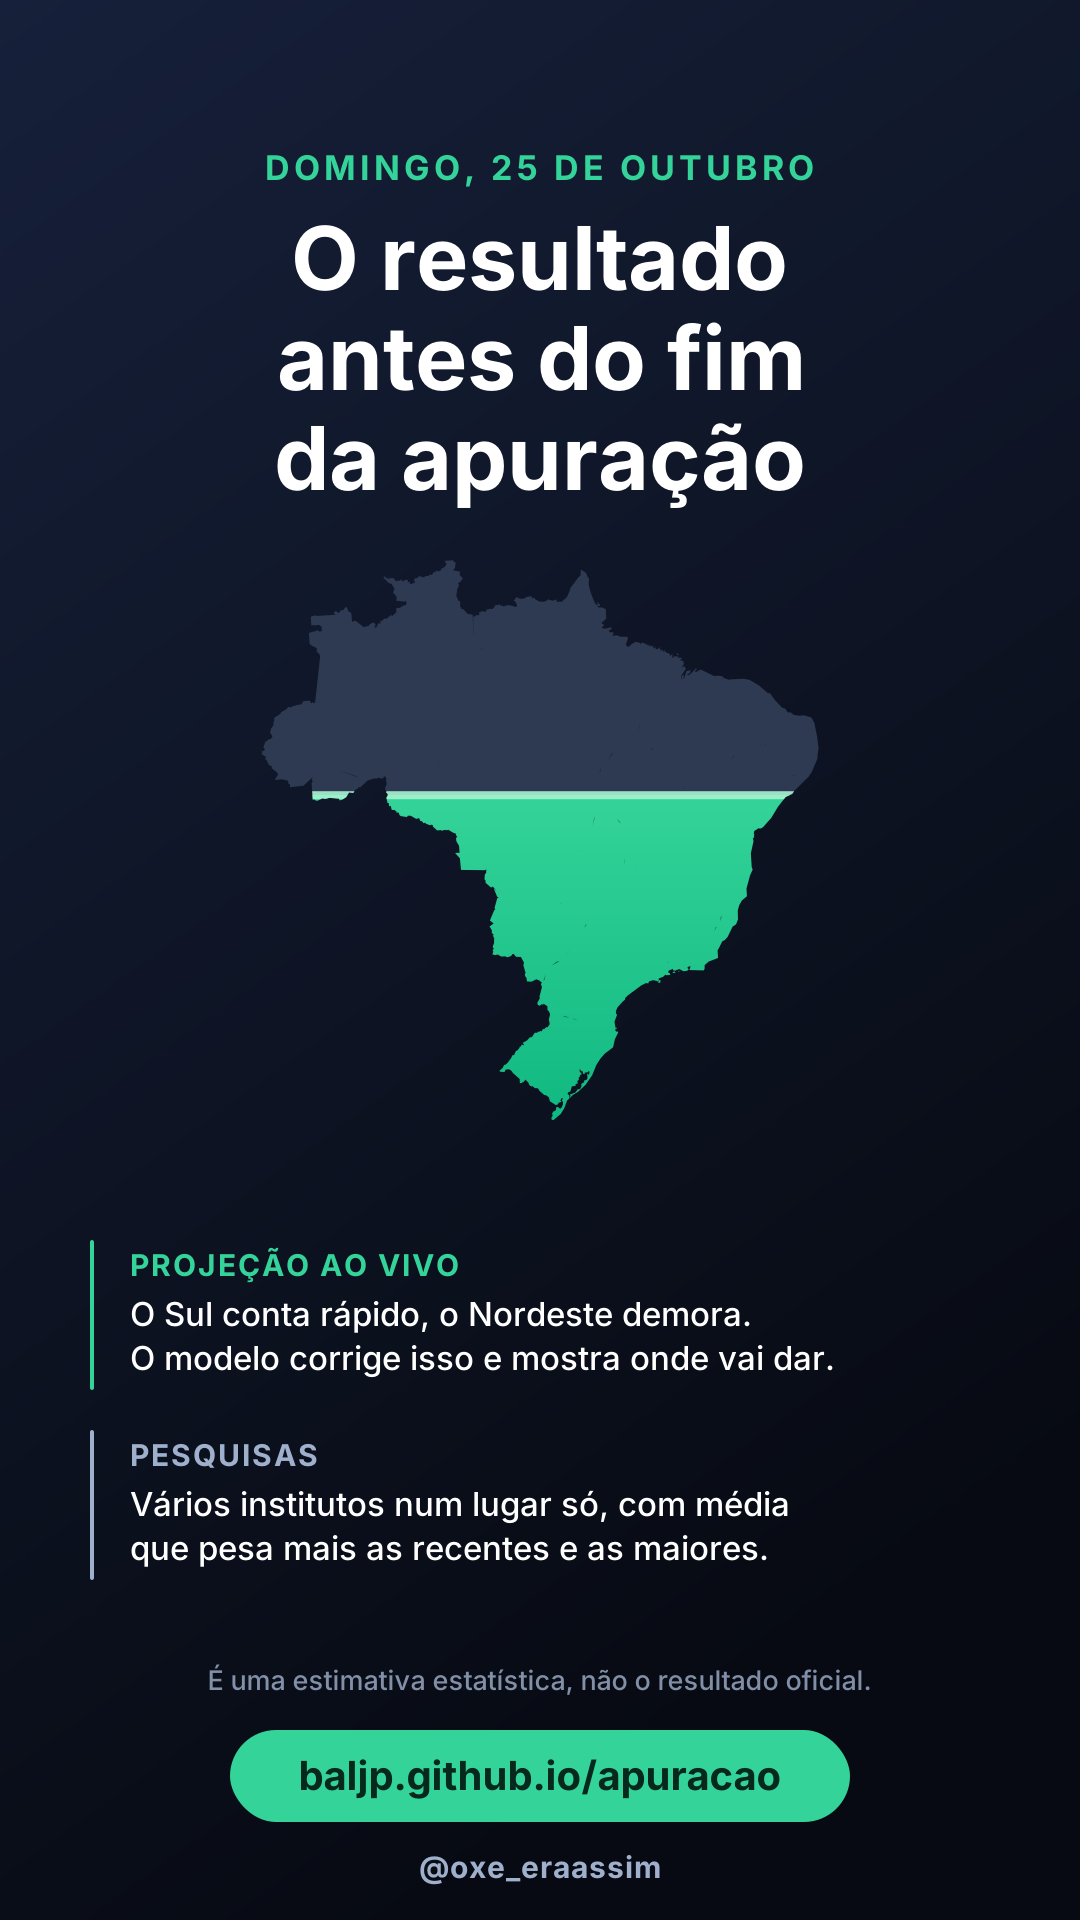
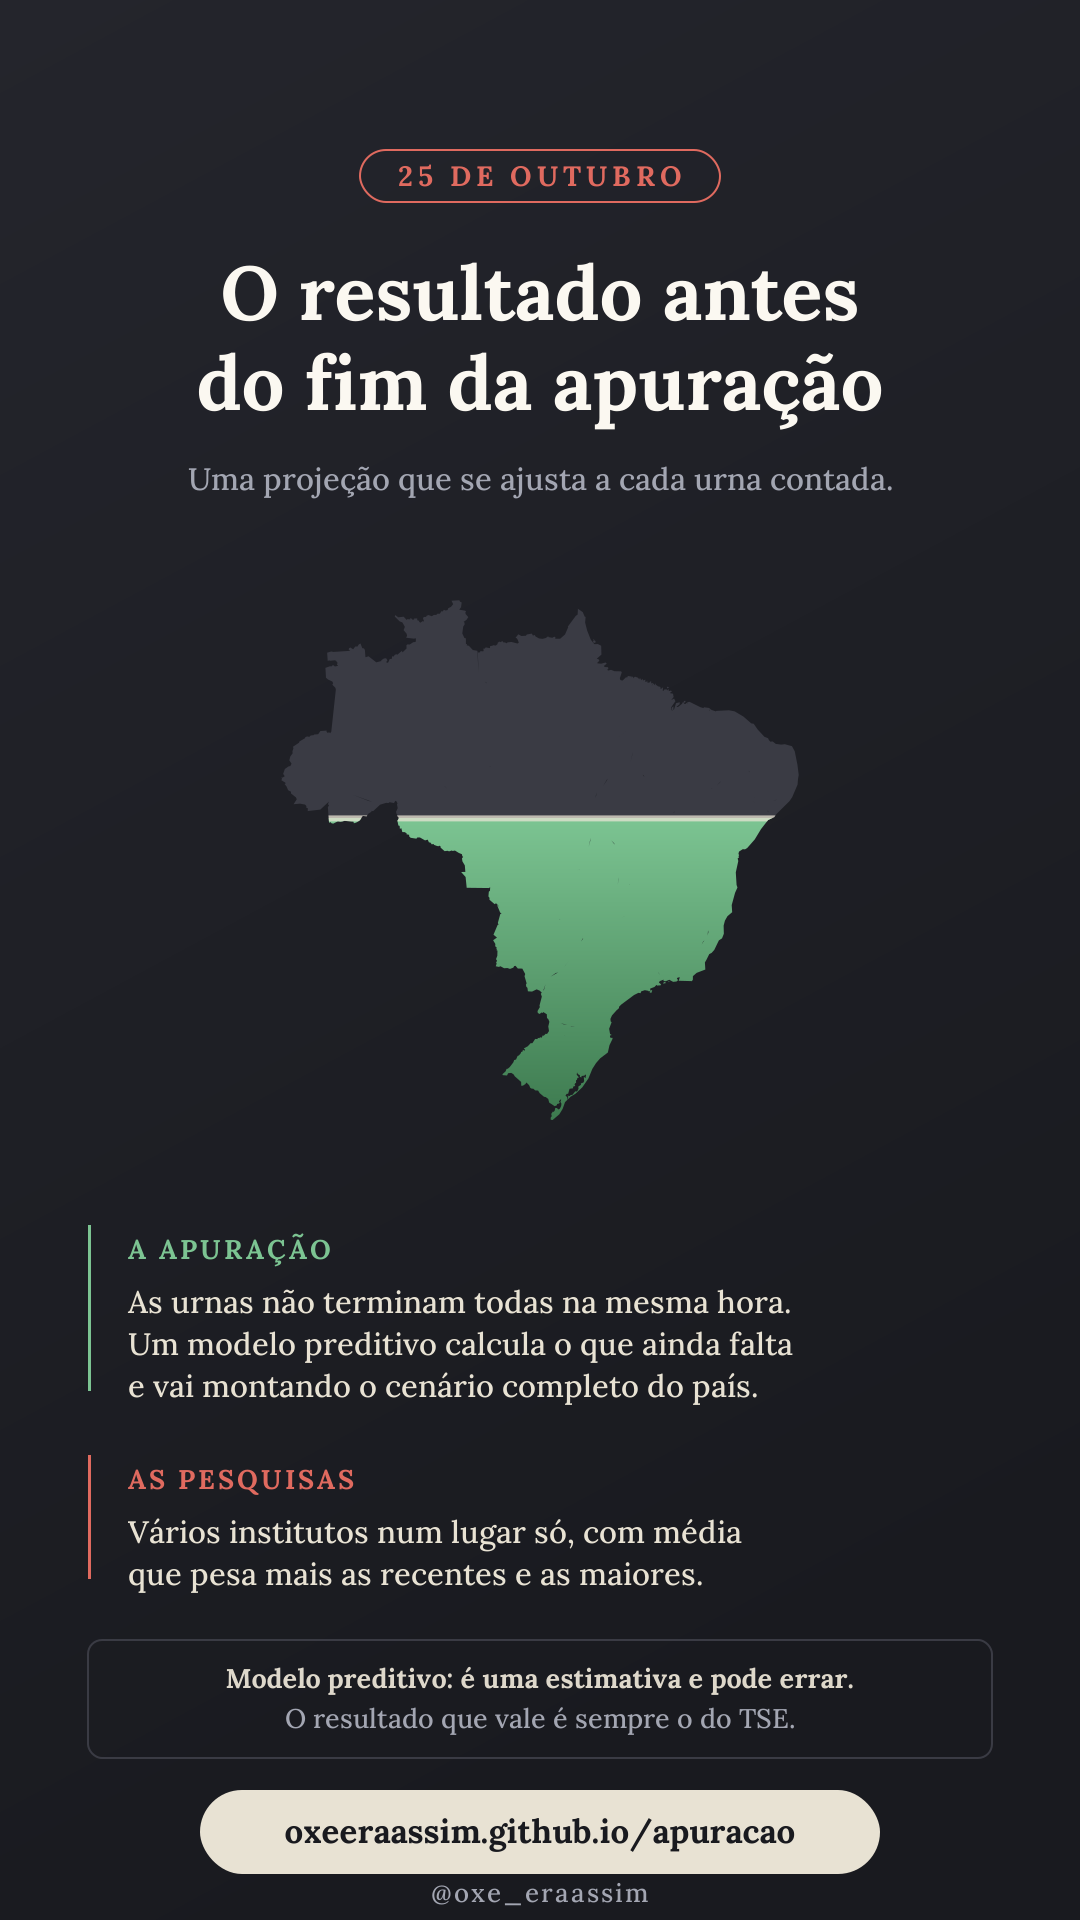
Story: modelo preditivo, aviso em destaque e endereco novo
Tres correcoes pedidas por Joao.

1. "O Sul conta rapido, o Nordeste demora" saiu. Soava como julgamento de
   regiao e nem era a explicacao certa. O que acontece vale para o pais
   inteiro: as urnas nao terminam todas na mesma hora, entao o numero do
   comeco mostra so os lugares que ja fecharam a contagem.

2. O texto diz "modelo preditivo" com todas as letras, e o aviso saiu da
   letra miuda do rodape para uma caixa propria com o mesmo peso de leitura
   do resto: estimativa pode errar, e o resultado que vale e o do TSE. Esse
   aviso e o que separa a pagina de um perfil que chuta resultado.

3. Identidade visual tirada da Biblioteca do Oxe, que e a mesma marca:
   #191a1f, creme #e8e2d3, verde #7cc492, terracota #e06a5f. A tipografia de
   la e Zilla Slab com Literata; aqui a substituta e a Lora, da mesma familia
   editorial com serifa.

Endereco atualizado para oxeeraassim.github.io/apuracao.

Claude-Session: https://claude.ai/code/session_01GYPZVw83ZkJR9nadBr32Ea

diff --git a/programa/gerar_stories.py b/programa/gerar_stories.py
@@ -1,14 +1,26 @@
 """
 Gera a imagem de divulgação para os stories do Instagram (1080 × 1920).
 
-A peça é escura e usa o mesmo mapa enchendo de baixo para cima que está no
-ícone do aplicativo: quem vir o story e depois instalar reconhece a mesma
-coisa. Verde continua significando andamento da apuração, nunca candidato —
-um story eleitoral em azul ou vermelho vira propaganda, e a página não é.
+IDENTIDADE VISUAL
+Tirada da Biblioteca do Oxe (oxeeraassim.github.io), que é a mesma marca:
+fundo quase preto #191a1f, creme de papel velho #e8e2d3, verde #7cc492 e
+terracota #e06a5f. A tipografia de lá é Zilla Slab com Literata; aqui a
+substituta é a Lora, da mesma família editorial com serifa — quem vê o story
+e depois abre a Biblioteca reconhece a mesma mão.
 
-O texto promete o que a página entrega e nada além: projeção é estimativa,
-não resultado. Exagerar aqui é o jeito mais rápido de queimar a credibilidade
-da página justamente na noite em que ela precisa ter alguma.
+Verde continua significando andamento da apuração e nunca candidato. Um story
+eleitoral em azul ou vermelho vira propaganda, e a página não é.
+
+SOBRE O TEXTO
+A primeira versão dizia "o Sul conta rápido, o Nordeste demora". Soa como
+julgamento de região, e nem é a explicação certa. O que acontece é mais
+simples e vale para o país inteiro: as urnas não terminam todas na mesma
+hora, então o número do começo mostra só os lugares que já fecharam a
+contagem. O modelo calcula o que falta e vai montando o cenário completo.
+
+O texto promete o que a página entrega e nada além, inclusive a linha de que
+projeção é estimativa. Exagerar na divulgação é o jeito mais rápido de
+queimar a credibilidade da página na noite em que ela precisa ter alguma.
 
 Uso:  python3 gerar_stories.py
 """
@@ -25,25 +37,30 @@ RAIZ = os.path.dirname(AQUI)
 
 L, A = 1080, 1920
 
-FUNDO_1 = "#16203A"
-FUNDO_2 = "#070A12"
-VERDE = "#34D399"
-VERDE_2 = "#10B981"
-CINZA_MAPA = "#2E3A52"
-BRANCO = "#FFFFFF"
-SUAVE = "#9FB0CC"
-LINHA_AGUA = "#A7F3D0"
+# Paleta da Biblioteca do Oxe.
+TINTA = "#191a1f"
+TINTA_2 = "#24252c"
+CREME = "#e8e2d3"
+CREME_FORTE = "#fbf8f1"
+VERDE = "#7cc492"
+VERDE_FUNDO = "#3d7a4f"
+TERRACOTA = "#e06a5f"
+CINZA = "#a3a6b2"
+MAPA_FALTA = "#3a3b44"
 
-ENDERECO = "baljp.github.io/apuracao"
+SERIF = "Lora, Georgia, serif"
+
+ENDERECO = "oxeeraassim.github.io/apuracao"
 PERFIL = "@oxe_eraassim"
 
-NIVEL = 0.58   # quanto do mapa aparece "apurado"
+NIVEL = 0.58
 
 
-def texto(x, y, t, tam, peso="600", cor=BRANCO, anc="middle", esp="0", op="1"):
+def txt(x, y, t, tam, peso="400", cor=CREME, anc="middle", esp="0", op="1",
+        fonte=SERIF):
     return (f'<text x="{x}" y="{y}" text-anchor="{anc}" fill="{cor}" '
-            f'font-family="Helvetica Neue,Helvetica,Arial" font-size="{tam}" '
-            f'font-weight="{peso}" letter-spacing="{esp}" opacity="{op}">{t}</text>')
+            f'font-family="{fonte}" font-size="{tam}" font-weight="{peso}" '
+            f'letter-spacing="{esp}" opacity="{op}">{t}</text>')
 
 
 def montar() -> str:
@@ -51,69 +68,84 @@ def montar() -> str:
         mapa = json.load(fh)
     _, _, lm, am = (float(v) for v in mapa["viewBox"].split())
 
-    # O mapa ocupa a faixa central da peça.
-    alvo = 560.0
+    alvo = 520.0
     esc = alvo / max(lm, am)
     dx = (L - lm * esc) / 2
-    dy = 560
+    dy = 600
     formas = "".join(f'<path d="{d}"/>' for d in mapa["ufs"].values())
     corte = dy + am * esc * (1 - NIVEL)
 
     p = [f'<svg xmlns="http://www.w3.org/2000/svg" width="{L}" height="{A}" '
          f'viewBox="0 0 {L} {A}">',
          '<defs>',
-         f'<linearGradient id="ceu" x1="0" y1="0" x2="0.4" y2="1">'
-         f'<stop offset="0" stop-color="{FUNDO_1}"/>'
-         f'<stop offset="1" stop-color="{FUNDO_2}"/></linearGradient>',
+         f'<linearGradient id="fundo" x1="0" y1="0" x2="0.3" y2="1">'
+         f'<stop offset="0" stop-color="{TINTA_2}"/>'
+         f'<stop offset="1" stop-color="{TINTA}"/></linearGradient>',
          f'<linearGradient id="nivel" x1="0" y1="{dy}" x2="0" y2="{dy + am * esc}"'
          f' gradientUnits="userSpaceOnUse">'
-         f'<stop offset="0" stop-color="{CINZA_MAPA}"/>'
-         f'<stop offset="{1 - NIVEL}" stop-color="{CINZA_MAPA}"/>'
+         f'<stop offset="0" stop-color="{MAPA_FALTA}"/>'
+         f'<stop offset="{1 - NIVEL}" stop-color="{MAPA_FALTA}"/>'
          f'<stop offset="{1 - NIVEL}" stop-color="{VERDE}"/>'
-         f'<stop offset="1" stop-color="{VERDE_2}"/></linearGradient>',
+         f'<stop offset="1" stop-color="{VERDE_FUNDO}"/></linearGradient>',
          '<clipPath id="br" clipPathUnits="userSpaceOnUse">'
          f'<g transform="translate({dx:.1f},{dy:.1f}) scale({esc:.5f})">{formas}</g>'
          '</clipPath>',
          '</defs>',
-         f'<rect width="{L}" height="{A}" fill="url(#ceu)"/>']
+         f'<rect width="{L}" height="{A}" fill="url(#fundo)"/>']
 
     # ---- topo ----
-    p.append(texto(L / 2, 180, "DOMINGO, 25 DE OUTUBRO", 34, "700", VERDE, esp="4"))
-    p.append(texto(L / 2, 290, "O resultado", 88, "700"))
-    p.append(texto(L / 2, 390, "antes do fim", 88, "700"))
-    p.append(texto(L / 2, 490, "da apuração", 88, "700"))
+    p.append(f'<rect x="{L / 2 - 180}" y="150" width="360" height="52" rx="26" '
+             f'fill="none" stroke="{TERRACOTA}" stroke-width="2"/>')
+    p.append(txt(L / 2, 186, "25 DE OUTUBRO", 28, "700", TERRACOTA, esp="5"))
+
+    p.append(txt(L / 2, 320, "O resultado antes", 76, "700", CREME_FORTE))
+    p.append(txt(L / 2, 410, "do fim da apuração", 76, "700", CREME_FORTE))
+    p.append(txt(L / 2, 490, "Uma projeção que se ajusta a cada urna contada.",
+                 31, "400", CINZA))
 
     # ---- mapa ----
     p.append('<g clip-path="url(#br)">')
     p.append(f'<rect x="0" y="{dy}" width="{L}" height="{am * esc}" fill="url(#nivel)"/>')
-    p.append(f'<rect x="0" y="{corte - 4}" width="{L}" height="8" '
-             f'fill="{LINHA_AGUA}" opacity="0.9"/>')
+    p.append(f'<rect x="0" y="{corte - 3}" width="{L}" height="6" '
+             f'fill="{CREME}" opacity="0.75"/>')
     p.append('</g>')
 
-    # ---- as duas coisas que a página faz ----
-    y = 1240
-    p.append(f'<rect x="90" y="{y}" width="4" height="150" fill="{VERDE}" rx="2"/>')
-    p.append(texto(130, y + 36, "PROJEÇÃO AO VIVO", 30, "700", VERDE, "start", esp="2"))
-    p.append(texto(130, y + 86, "O Sul conta rápido, o Nordeste demora.", 33, "500",
-                   BRANCO, "start"))
-    p.append(texto(130, y + 130, "O modelo corrige isso e mostra onde vai dar.", 33,
-                   "500", BRANCO, "start"))
+    # ---- o que a página faz ----
+    y = 1225
+    p.append(f'<rect x="88" y="{y}" width="3" height="166" fill="{VERDE}"/>')
+    p.append(txt(128, y + 34, "A APURAÇÃO", 27, "700", VERDE, "start", esp="3"))
+    p.append(txt(128, y + 88, "As urnas não terminam todas na mesma hora.",
+                 31, "400", CREME, "start"))
+    p.append(txt(128, y + 130, "Um modelo preditivo calcula o que ainda falta",
+                 31, "400", CREME, "start"))
+    p.append(txt(128, y + 172, "e vai montando o cenário completo do país.",
+                 31, "400", CREME, "start"))
 
-    y = 1430
-    p.append(f'<rect x="90" y="{y}" width="4" height="150" fill="{SUAVE}" rx="2"/>')
-    p.append(texto(130, y + 36, "PESQUISAS", 30, "700", SUAVE, "start", esp="2"))
-    p.append(texto(130, y + 86, "Vários institutos num lugar só, com média", 33, "500",
-                   BRANCO, "start"))
-    p.append(texto(130, y + 130, "que pesa mais as recentes e as maiores.", 33, "500",
-                   BRANCO, "start"))
+    y = 1455
+    p.append(f'<rect x="88" y="{y}" width="3" height="124" fill="{TERRACOTA}"/>')
+    p.append(txt(128, y + 34, "AS PESQUISAS", 27, "700", TERRACOTA, "start", esp="3"))
+    p.append(txt(128, y + 88, "Vários institutos num lugar só, com média",
+                 31, "400", CREME, "start"))
+    p.append(txt(128, y + 130, "que pesa mais as recentes e as maiores.",
+                 31, "400", CREME, "start"))
 
     # ---- rodapé ----
-    p.append(texto(L / 2, 1690, "É uma estimativa estatística, não o resultado oficial.",
-                   27, "500", SUAVE, op="0.8"))
-    p.append(f'<rect x="{L / 2 - 310}" y="1730" width="620" height="92" rx="46" '
-             f'fill="{VERDE}"/>')
-    p.append(texto(L / 2, 1790, ENDERECO, 40, "700", "#06281D"))
-    p.append(texto(L / 2, 1878, PERFIL, 30, "600", SUAVE, esp="1"))
+    # O aviso não é letra miúda de rodapé: é o que separa a página de um
+    # perfil que chuta resultado. Fica em caixa própria, com o mesmo peso de
+    # leitura do resto, e diz as duas coisas que importam — que o modelo
+    # pode errar, e quem dá a palavra final.
+    y = 1640
+    p.append(f'<rect x="88" y="{y}" width="{L - 176}" height="118" rx="14" '
+             f'fill="none" stroke="{MAPA_FALTA}" stroke-width="2"/>')
+    p.append(txt(L / 2, y + 48, "Modelo preditivo: é uma estimativa e pode errar.",
+                 27, "700", CREME, op="0.95"))
+    p.append(txt(L / 2, y + 88, "O resultado que vale é sempre o do TSE.",
+                 27, "400", CINZA))
+
+    p.append(f'<rect x="{L / 2 - 340}" y="1790" width="680" height="84" rx="42" '
+             f'fill="{CREME}"/>')
+    p.append(txt(L / 2, 1843, ENDERECO, 33, "700", TINTA))
+    p.append(txt(L / 2, 1902, PERFIL, 26, "400", CINZA, esp="2"))
 
     p.append("</svg>")
     return "".join(p)
